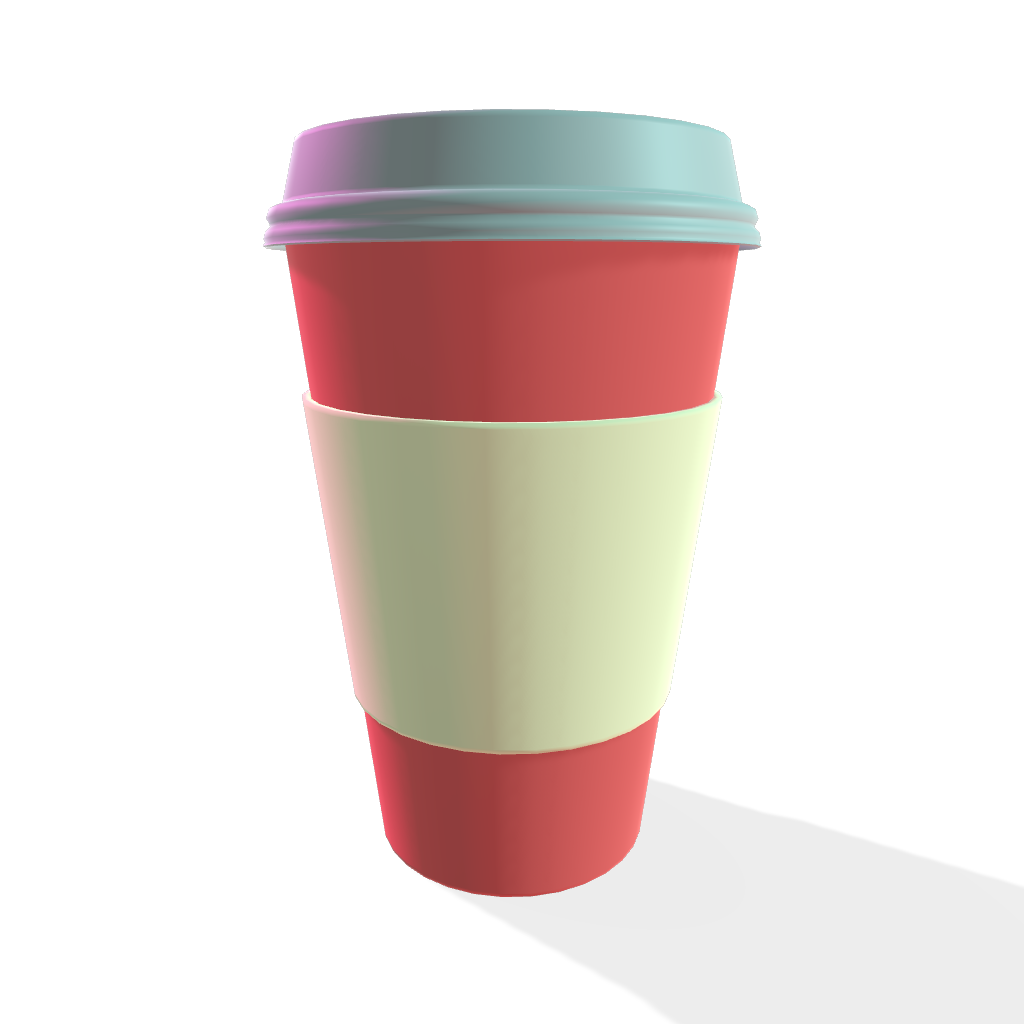
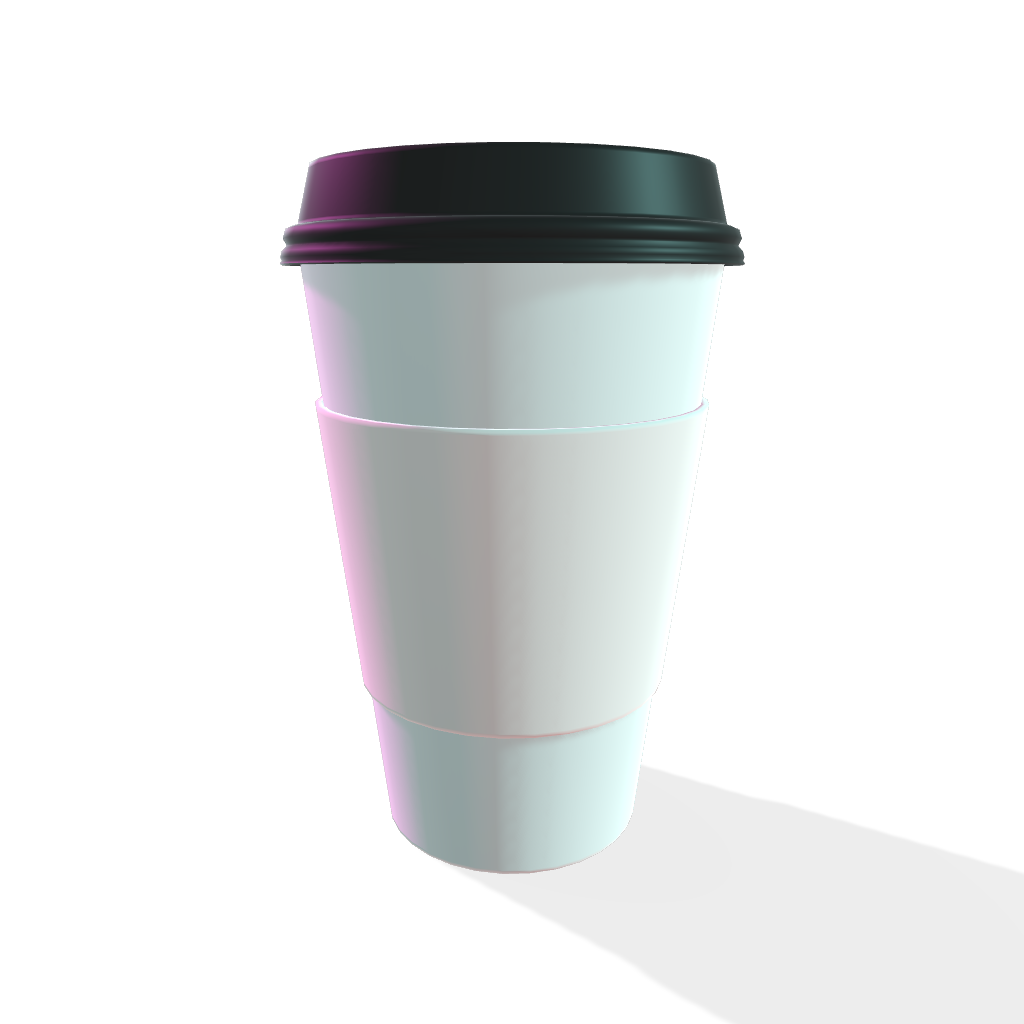
Mudança de cor do copo

Changed region(s): [[0.25, 0.0938, 0.75, 0.875]]

diff --git a/index.html b/index.html
@@ -89,7 +89,7 @@
             model.setAttribute('visible', 'true');
             modeltext.setAttribute('visible', 'true');
 
-            scene.querySelectorAll('a-entity, a-obj-model').forEach((model) => {
+            scene.querySelectorAll('a-entity').forEach((model) => {
                 if (model.id != modelName) {
                     model.setAttribute('visible', 'false');
                 }
